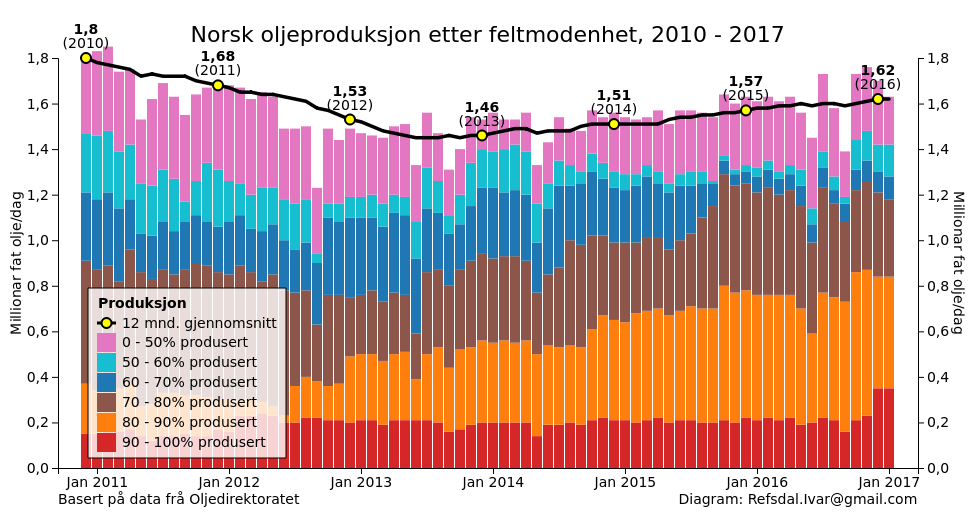
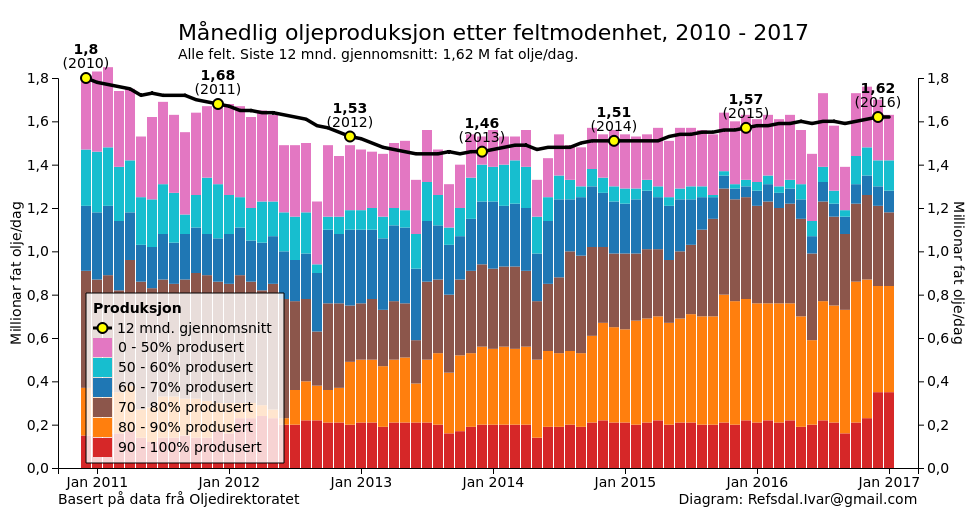
Improve legend

diff --git a/vis/recent_production.js b/vis/recent_production.js
@@ -48,7 +48,7 @@ function add_mma_line(svg, data, x, y) {
     .attr('r', '5')
 }
 
-function show_resource(file) {
+function show_resource(opts) {
   d3.formatDefaultLocale({
     'decimal': ',',
     'thousands': '.',
@@ -59,16 +59,16 @@ function show_resource(file) {
   var svg = d3.select('body').append('svg')
     .attr('width', 960)
     .attr('height', 500)
-    //.style('border', "1px solid #000000")
+  //.style('border', "1px solid #000000")
 
-  var margin = { top: 50, right: 50, bottom: 40, left: 50 },
+  var margin = { top: 70, right: 50, bottom: 40, left: 50 },
     width = +svg.attr("width") - margin.left - margin.right,
     height = +svg.attr("height") - margin.top - margin.bottom,
     svg = svg.append("g").attr("transform", "translate(" + margin.left + "," + margin.top + ")");
 
   var parseTime = d3.timeParse("%Y-%m");
 
-  d3.csv(file,
+  d3.csv(opts.filename,
     function (d) {
       var o = Object.keys(d).reduce(function (o, n) { o[n] = +d[n]; return o; }, {});
       o.date = parseTime(d.date);
@@ -104,13 +104,21 @@ function show_resource(file) {
         .domain([0, d3.max(data.map(function (d) { return d3.max([d.mma]) }))])
         .range([height, 0]);
 
+      var xstart = 120;
       svg.append("g")
         .append("text")
-        .attr('dy', '-0.75em')
-        .attr('x', width / 2)
-        .style("text-anchor", "middle")
+        .attr('dy', '-1.75em')
+        .attr('x', xstart)
+        .style("text-anchor", "start")
         .classed("heading", true)
-        .text("Norsk oljeproduksjon etter feltmodenhet, " + data[0].date.getFullYear() + " - " + data[data.length - 1].date.getFullYear())
+        .text("Månedlig oljeproduksjon etter feltmodenhet, " + data[0].date.getFullYear() + " - " + data[data.length - 1].date.getFullYear())
+
+      svg.append("g")
+        .append("text")
+        .attr('dy', '-1.35em')
+        .attr('x', xstart)
+        .style("text-anchor", "start")
+        .text(opts.subtitle + '. Siste 12 mnd. gjennomsnitt: ' + ("" + data[data.length - 1].mma).replace(".", ",") + ' M fat olje/dag.')
 
       var x = d3.scaleBand()
         .domain(data.map(function (d) { return d.date }))
@@ -134,30 +142,32 @@ function show_resource(file) {
         .attr("height", function (d) { return y(d[0]) - y(d[1]); })
         .attr("width", x.bandwidth());
 
+      var xstart = (x(data[0].date) + x.bandwidth() / 2);
+      var ystart = height - (20 * (2 + keys.length)) - x.bandwidth() / 2 - 10.0;
+
       var legendbox = svg.append("g")
-        .attr('transform', 'translate(10, ' + (height - (20 * (2 + keys.length))) + ')')
+        .attr('transform', 'translate(' + xstart + ',' + ystart + ')')
       legendbox.append('rect')
-        .attr('x', 20)
-        .attr('y', -20)
         .attr('width', 198)
-        .attr('height', 10 + 20 * (2 + keys.length))
+        .attr('height', 20 * (2 + keys.length) + 10.0)
         .attr('fill', 'white')
         .attr('stroke', 'black')
         .style('fill-opacity', '0.8')
 
+      legendbox = legendbox.append('g')
+        .attr('transform', 'translate(' + 7 + ',' + 20 + ')')
+
       legendbox.append('text')
-        .attr('x', 20 + 10)
         .style('font-weight', 'bold')
         .text('Produksjon')
 
       legendbox.append('g')
-        .attr('transform', 'translate(10, 20)')
+        .attr('transform', 'translate(24, 20)')
         .append('text')
-        .attr('x', 24 + 20)
         .text('12 mnd. gjennomsnitt')
 
       legendbox.append('g')
-        .attr('transform', 'translate(29, 15)')
+        .attr('transform', 'translate(0, 15)')
         .append('line')
         .attr('x1', 0)
         .attr('x2', 19)
@@ -167,7 +177,7 @@ function show_resource(file) {
         .style('stroke-width', '3')
 
       legendbox.append('g')
-        .attr('transform', 'translate(29, 15)')
+        .attr('transform', 'translate(0, 15)')
         .append('circle')
         .attr('cx', 19 / 2.0)
         .attr('cy', 0)
@@ -176,8 +186,8 @@ function show_resource(file) {
         .style('fill', 'yellow')
         .attr('r', '5')
 
-      var legend = svg.append("g")
-        .attr('transform', 'translate(20, ' + (5 + height - (20 * (1 + keys.length))) + ')')
+      var legend = legendbox.append("g")
+        .attr('transform', 'translate(0, 25)')
         .attr("font-family", "sans-serif")
         .attr("font-size", 10)
         .selectAll("g")
@@ -186,13 +196,12 @@ function show_resource(file) {
         .attr("transform", function (d, i) { return "translate(0," + i * 20 + ")"; });
 
       legend.append("rect")
-        .attr("x", 19)
         .attr("width", 19)
         .attr("height", 19)
         .attr("fill", z);
 
       legend.append("text")
-        .attr("x", 24 + 20)
+        .attr("x", 25)
         .attr("y", 9.5)
         .attr("dy", "0.32em")
         .text(function (d) { return d.slice(2); });
@@ -260,9 +269,10 @@ function show_resource(file) {
 var m = {
   oil: {
     filename: '/data/oil-production-bucket-stacked.csv',
+    subtitle: 'Alle felt',
     screenshot: 'recent_oil_production.png'
   }
 };
 
 var mode = findGetParameter('mode', 'oil');
-show_resource(m[mode].filename);
+show_resource(m[mode]);
